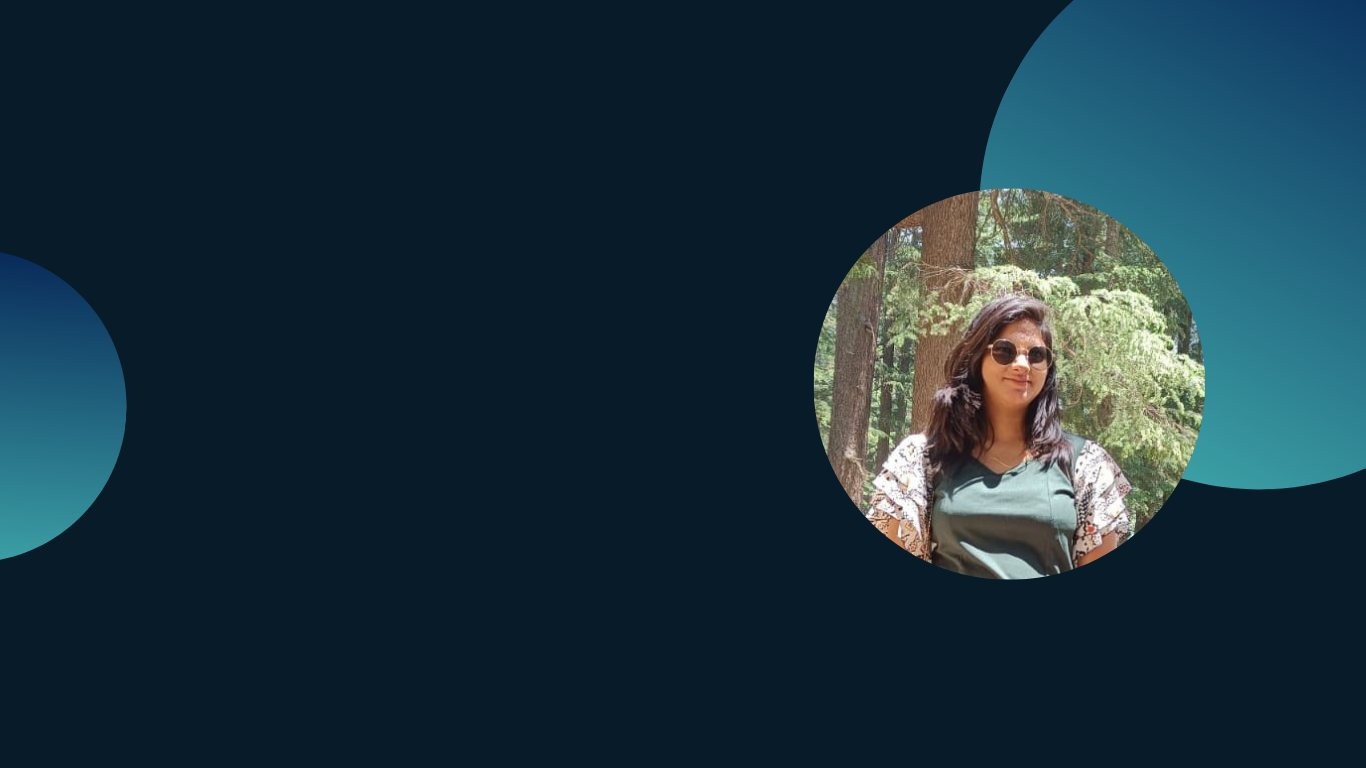
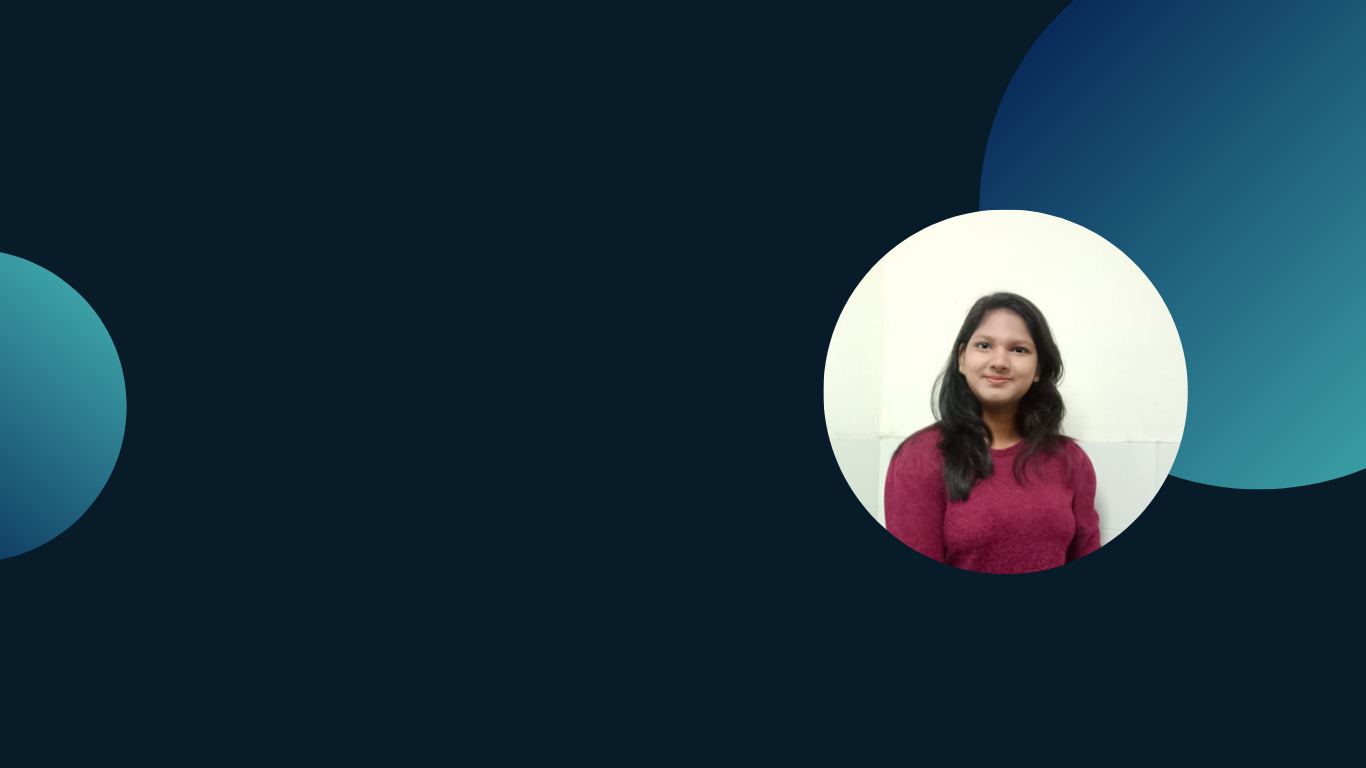
change wallpaper

diff --git a/portfolio-sneha/index.html b/portfolio-sneha/index.html
@@ -42,7 +42,7 @@
 
         <section class="about" id="about">
             <div class="about-img">
-                <img src="./src/img/about.jpg"> 
+                <img src="./src/img/profile.png"> 
             </div>
             <div class="about-text">
                 <h2>About <span>Me</span></h2>
